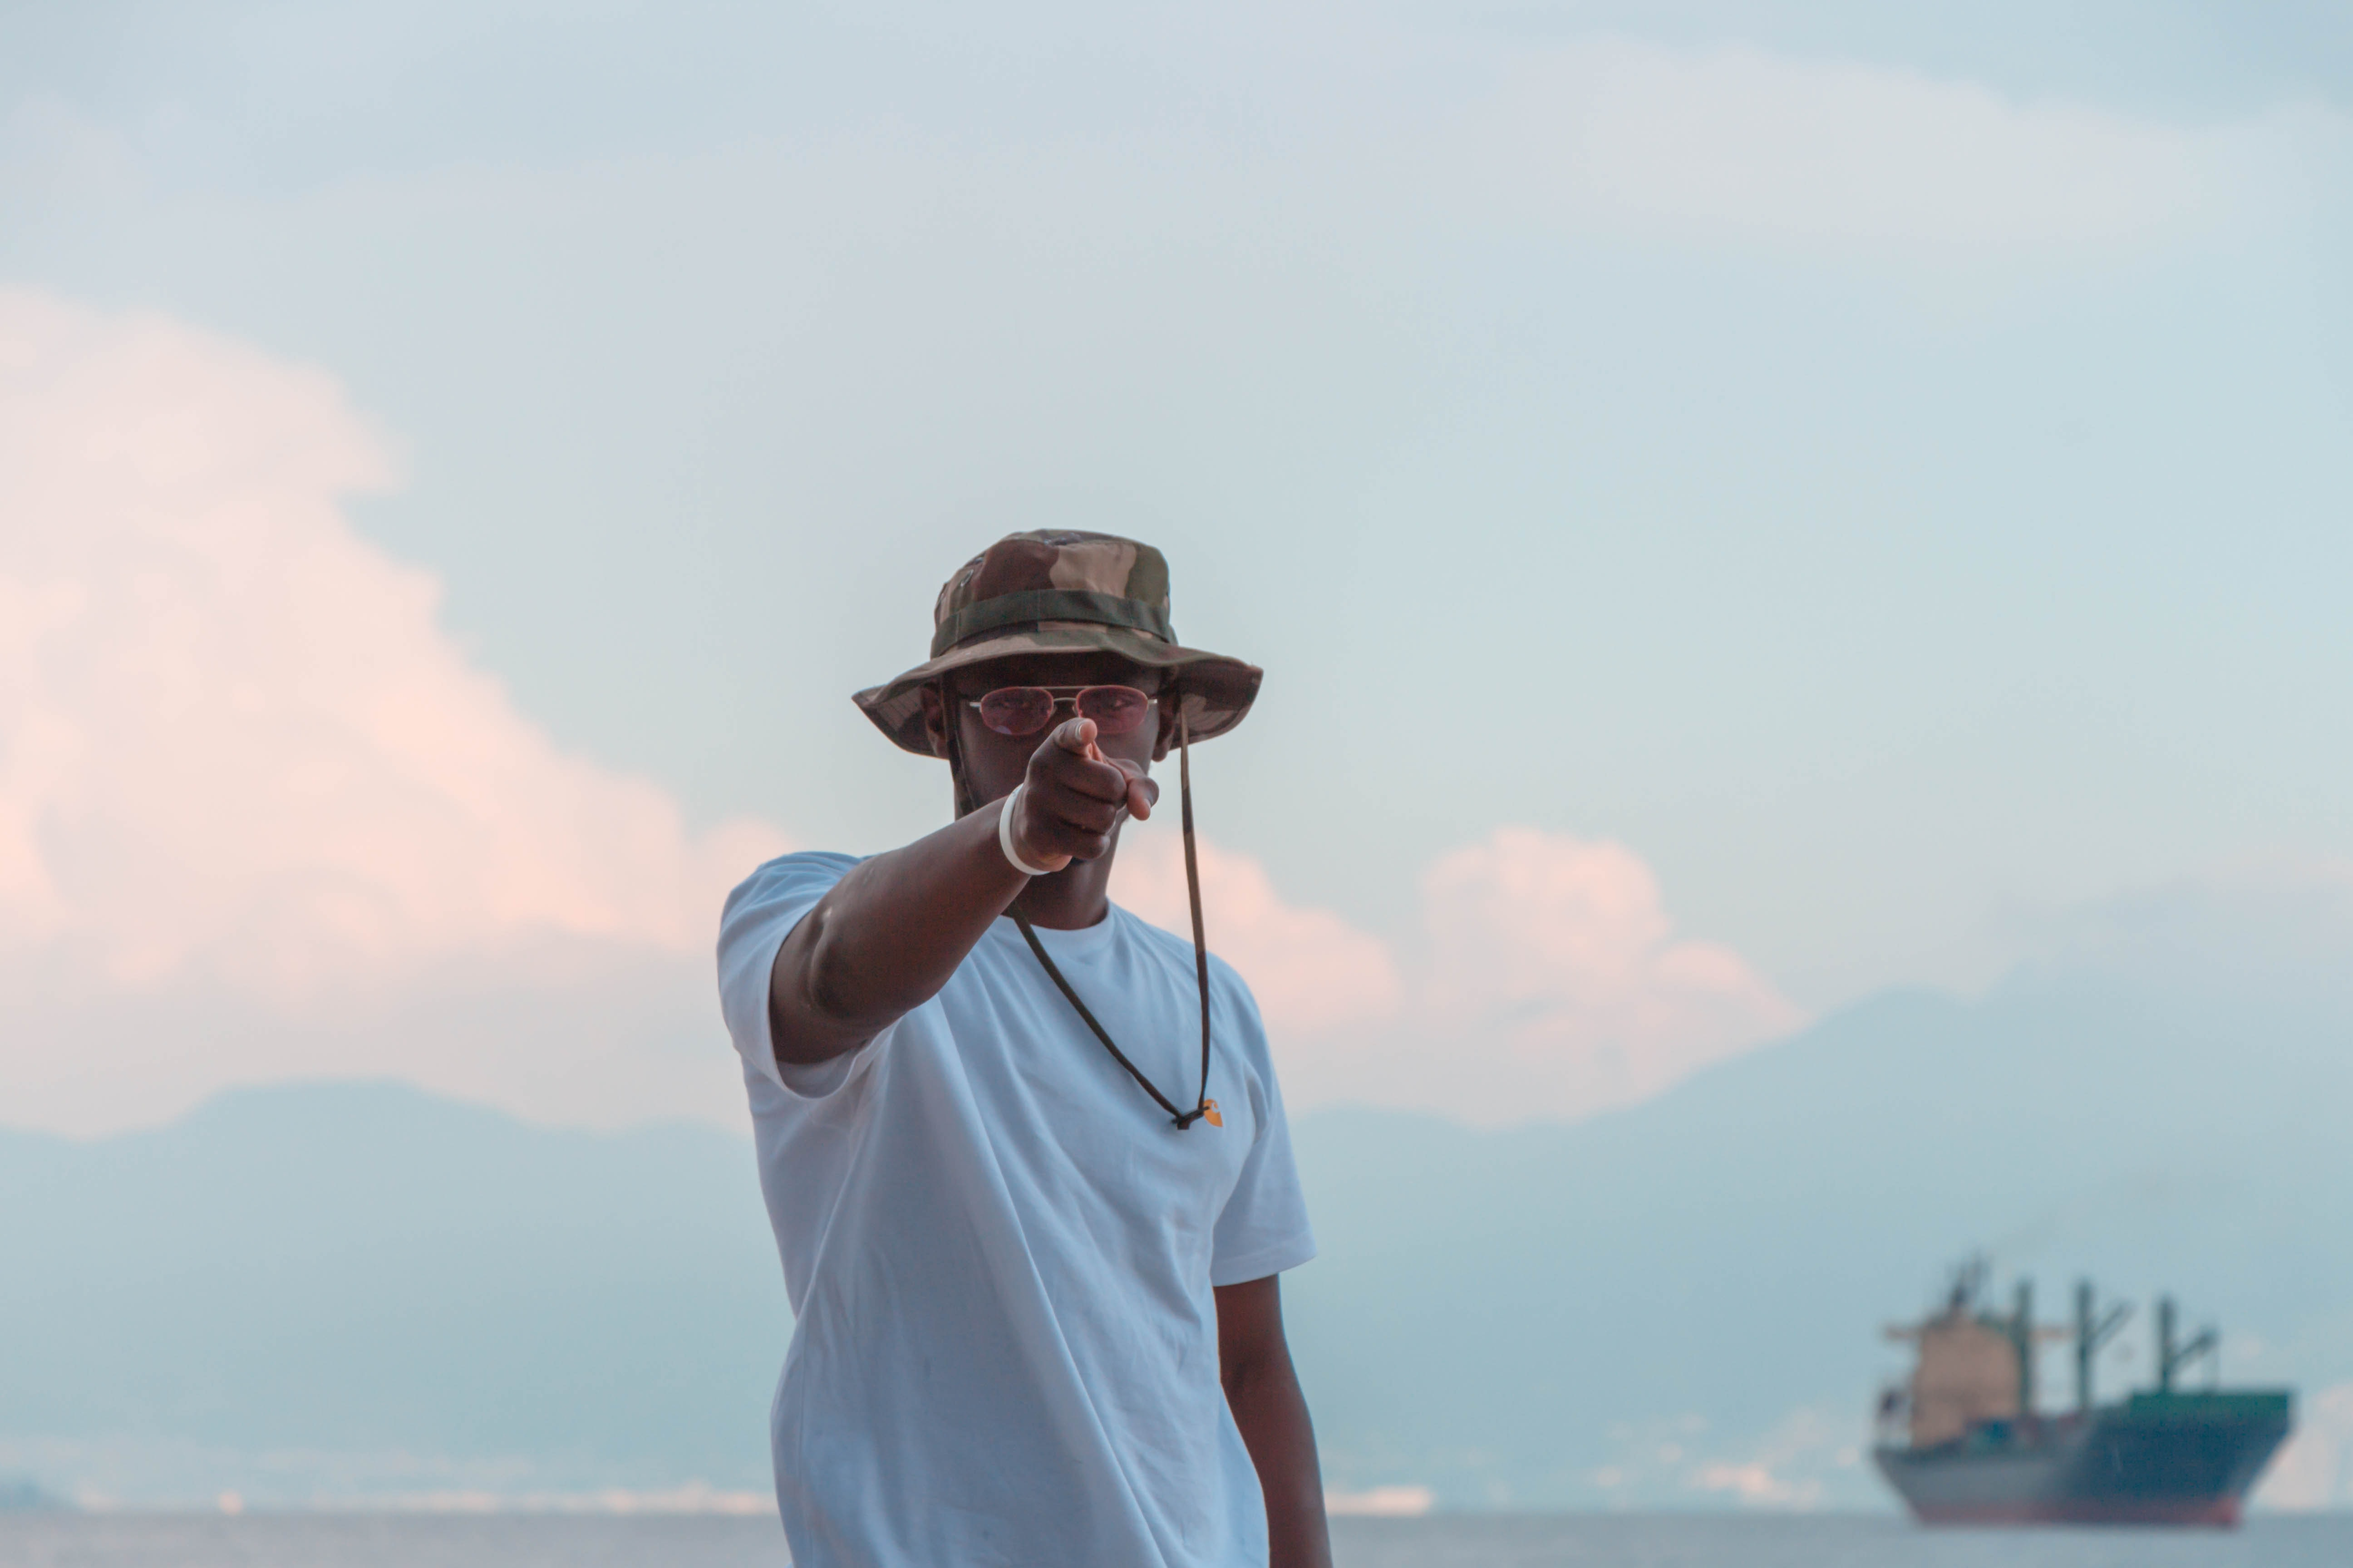
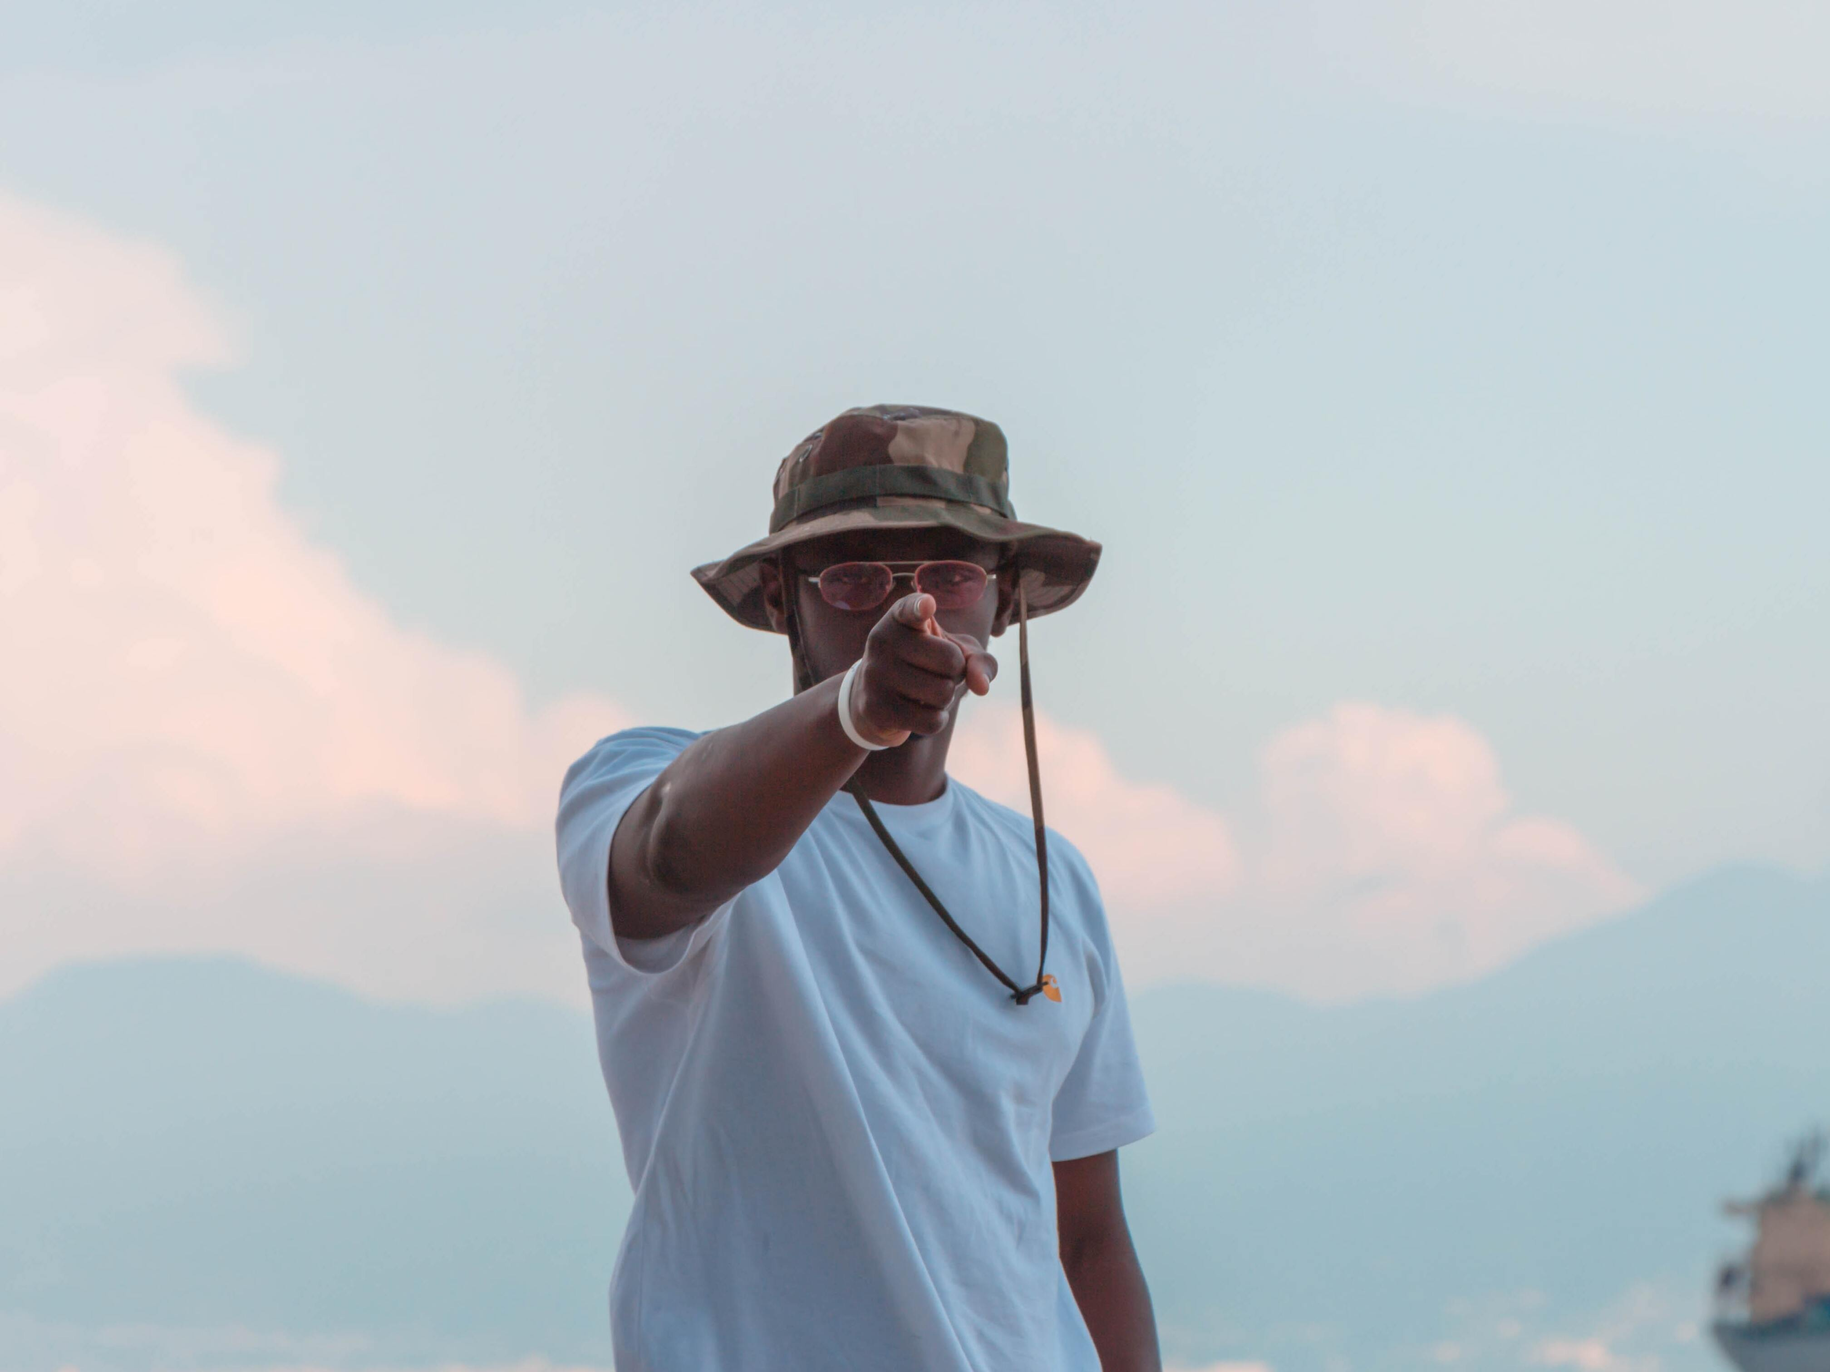
Modify image sizes and fig captions

diff --git a/cyber-practices/index.html b/cyber-practices/index.html
@@ -22,6 +22,14 @@
         <ol start="1">
           <li><h3>Don't think you're not a target</h3>
           <ul class="cbp-items">
+            <li>
+              <figure id="cbp-1">
+                <img src="../assets/img/cbp1.jpg" alt="A picture of a person pointing at the
+                camera."/>
+                <figcaption id="headshot-figcaption">A picture of a person pointing at the
+                camera.</figcaption>
+              </figure>
+            </li>
             <li>Everyone is at risk! Cybersecurity is everyone's responsibility.</li>
             <li>Protect yourself and others by following the following tips.</li>
           </ul>
